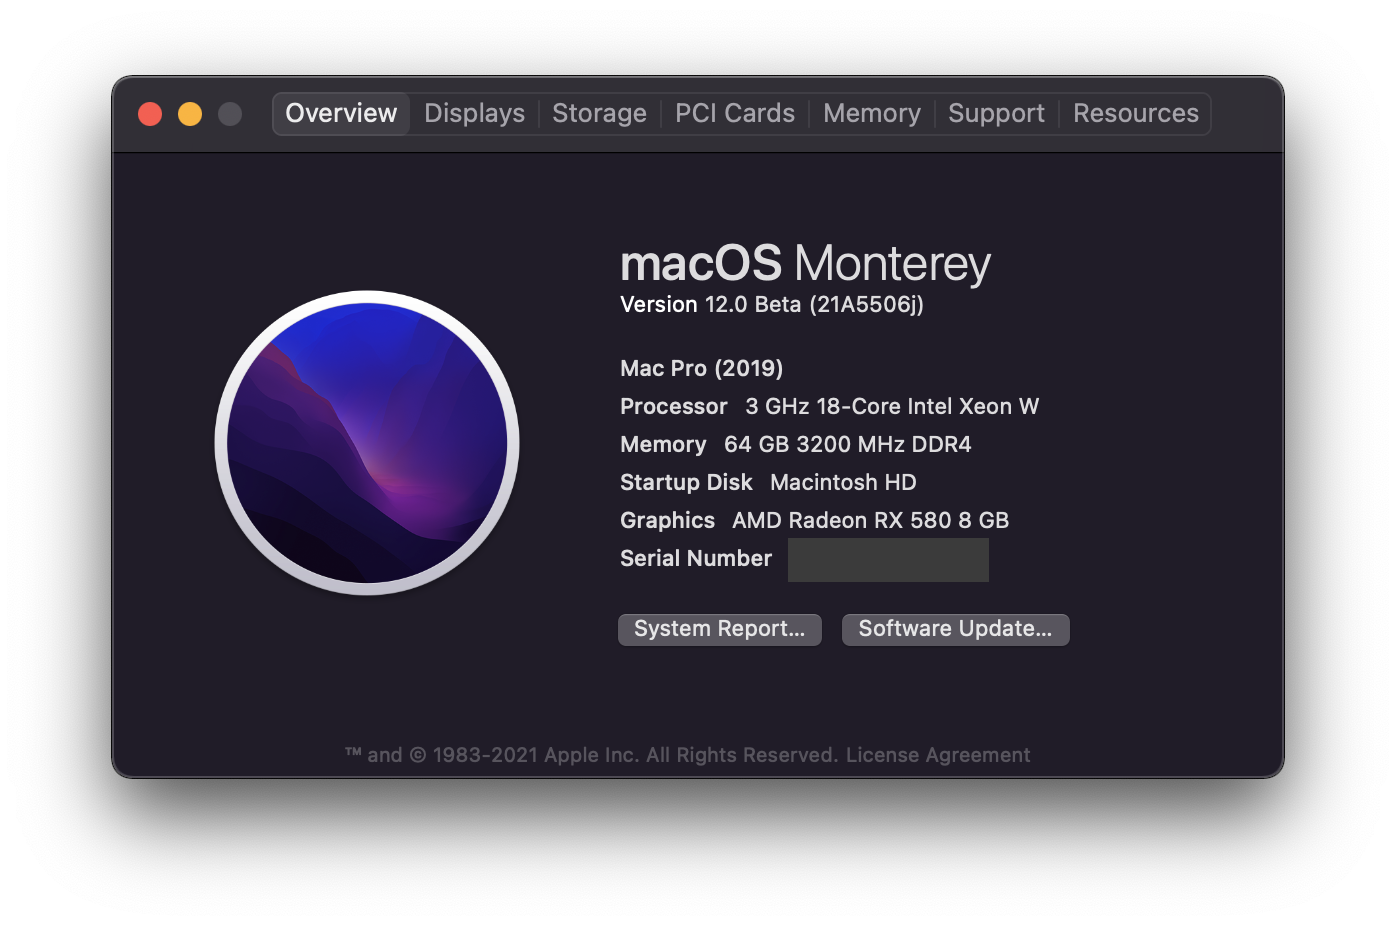
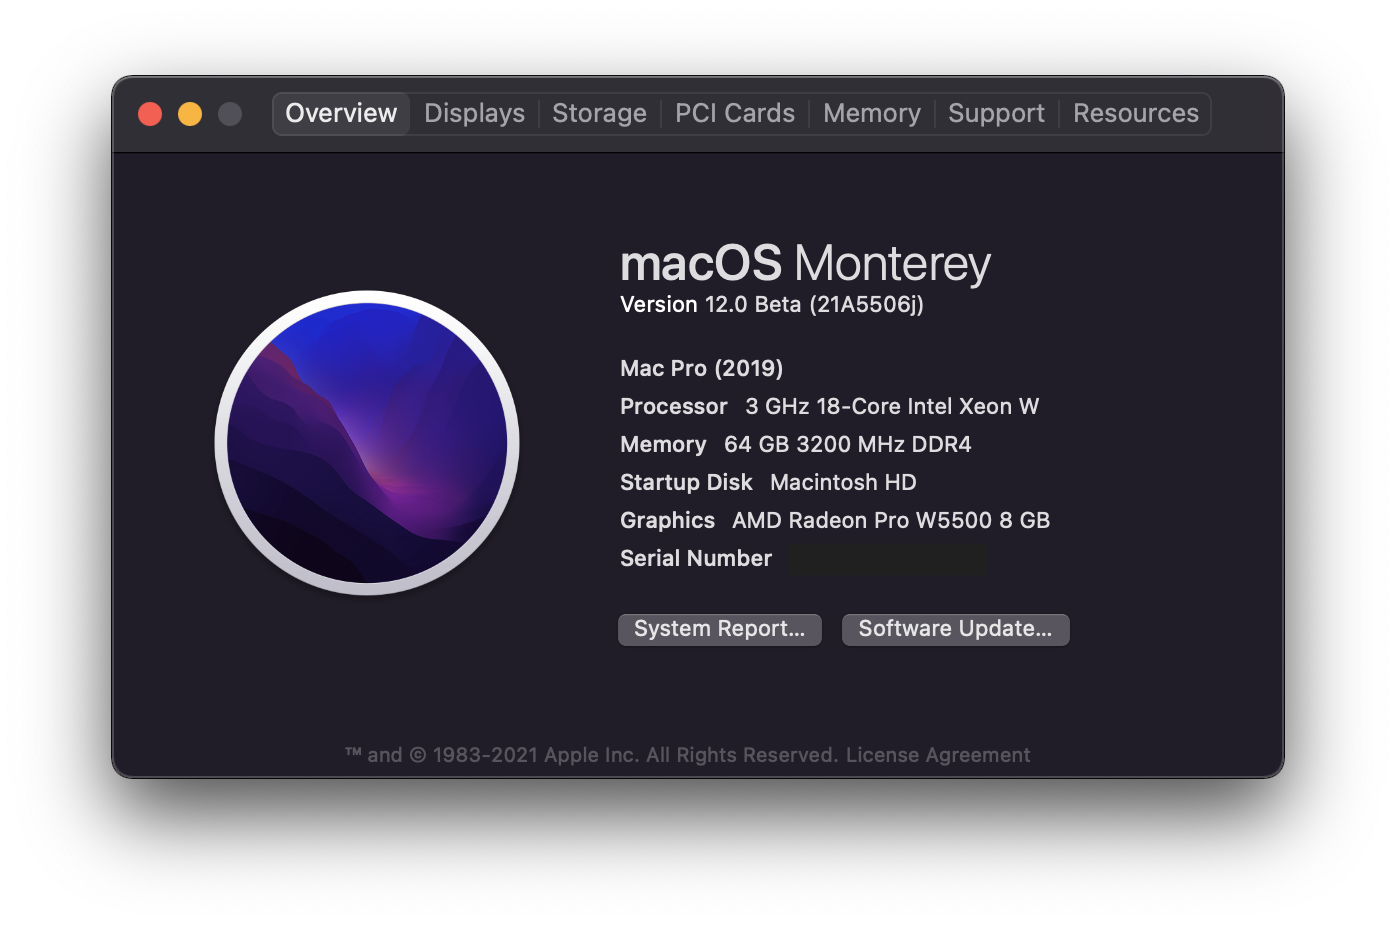
Archive Repo

Changed region(s): [[0.5544, 0.5443, 0.7701, 0.635]]

diff --git a/Personal Build/README.md b/Personal Build/README.md
@@ -8,7 +8,7 @@ ASUS Pro WS X299 Sage II
 
 | Component        | Model                                | Notes |
 | ---------------- | ---------------------------------------|-------------------|
-| Motherboard | ASUS Pro WS X299 Sage II | BIOS 0901 - Refer to [Quirks section](https://github.com/shinoki7/ASUS-X299-Hackintosh/tree/main/Personal%20Build#quirks) for reasoning |
+| Motherboard | ASUS Pro WS X299 Sage II | |
 | Processor | Intel i9-10980XE | |
 | CPU Cooler | Fractal Design Celsius+ S36 Dynamic | |
 | RAM | 4x16 Corsair Vengeance LPX 3200 Mhz | |
@@ -25,7 +25,7 @@ ASUS Pro WS X299 Sage II
 | 2 | x8 | Gigabyte GC-Titan Ridge V2.0 | NVM23 with Jumped Pins |
 | 3 | x8 | | |
 | 4 | x8 | | |
-| 5 | x8 | AMD Radeon Pro W5500 | |
+| 5 | x8 | AMD Radeon Pro W5500 | vBIOS 113-D3250400-104 |
 | 6 | x8 | Intel X550-T2 10G Ethernet Card | |
 | 7 | x8 | | |
 
@@ -59,54 +59,6 @@ ASUS Pro WS X299 Sage II
 - [x] Thunderbolt 3/4 hot-plug
 - [ ] SideCar
     * Due to some T2 chip dependancies on MacPro7,1 and iMacPro1,1 SMBIOS
-
-## Quirks
-### Reasoning for BIOS 0901 revision
-I'm planning on populating two of the U.2 ports with Thunderbolt add-in cards.  If you don't use the Thunderbolt BIOS settings and attach in the proper PCIe slot, the USB Controller on the card does not load on higher BIOS revisions with resizable bar.
-
-### Sleep Issues
-With my current setup, sleep does not work properly for two reasons.  
-1. Using a M.2 adapter for the Wifi/BT adapter.  Sleep will cause instant wake but this issue can be avoided if you use the [SSDT-GPRW.aml and GPRW TO XPRW patch](https://dortania.github.io/OpenCore-Post-Install/usb/misc/instant-wake.html).  However if you want to wake up via bluetooth, use a proper add-in card in a PCIe slot.
-
-2. If you populate a non storage device in a U.2 slot, the computer will sleep but wake will instantly result in a reboot with error
-
-```
-Sleep Wake failure in EFI (Failure code:: 0xffffffff 0x0000001f)
-```
-
-Sleep not working is not a major issue for me since I usually just turn off my computer at night or leave it on while it is processing something.  If sleep is important to you, I'd avoid using U.2 slots or M.2 slots with adapters for non storage devices.
-
-### Radeon Pro W5500
-I wanted a GPU that was single slot and didn't really care too much about performance since this machine is primarily used for coding/VMs/and audio work.
-While the Radeon Pro W5500 is supported out of the box, I have been running into two major issues.  The major issue appears to related to AGPM (Apple Graphics Power Management).  I have heard success stories from other users with the W5500 but the issues may be due to mine possibly being a HP version.
-
-#### 1. Kernel Panics with Green/Black screen
-macOS will randomly kernel panic and freeze (sometimes once a day, sometimes multiple) with a green screen (HDMI) or black screen (DP).  The computer will either stay on a green/black screen until manually rebooting or macOS will reboot automatically with a kernel panic log.
-
-Things I've tried:
- * Various versions of macOS Big Sur
- * Different SMBIOS (iMacPro1,1, MacPro7,1)
- * Different Ram/XMP settings
- * Enable/Disable Whatevergreen + boot-arg agdpmod=pikera
- * Enable/Disable AGPMInjector.kext
-
-#### 2. Hit or miss DP/HDMI audio
-DP/HDMI audio sometimes does not work and audio selection is missing from macOS Sound Preferences on consecutive reboots.  Not sure if this is due to my DP to HDMI adapters as I haven't tried testing with just DP cables attached.
-
-#### Workarounds
-After some troubleshooting, I found that keeping a video open in the background seems to prevent kernel panics.  The video does not have to be continuously playing so I just had a small video clip set to open on login.  However, I was still having issues with DP/HDMI audio.
-
-The more complete workaround I found was to adjust the Device Properties to device spoof to a 5500XT.
-
- | Key | Class | Value |
- | :--- | :--- | :--- |
- | compatible | String | pci1002,7341 |
- | device-id | Data | 40730000 |
- | agdpmod | String | Pikera |
-
-With device spoofing, DP/HDMI audio is more stable as well although the monitor/tv has to be on at boot for audio to work (at least with DP to HDMI adapters, haven't tested DP to DP connections).  This isn't really an issue for me since I only have audio connected to my main monitor.
-
-With the Device Properties adjustments and running a video at login, the amount of kernel panics have reduced significantly and I rarely run into these issues anymore.  Newer versions of macOS Big Sur and Monterey also appear to be more stable.
 
 ## Screenshots
 

diff --git a/Thunderbolt/README.md b/Thunderbolt/README.md
@@ -86,8 +86,8 @@ Switching from Standard to Extended is optional, but it brings your system more 
   * [Flashing SPI ROM Chips using Raspberry Pi 3B or 4](https://www.tonymacx86.com/threads/success-gigabyte-designare-z390-thunderbolt-3-i7-9700k-amd-rx-580.267551/post-2080585)
   * [Flashing SPI ROM Chips using 3.3V CH341A Programmer](https://www.tonymacx86.com/threads/success-gigabyte-designare-z390-thunderbolt-3-i7-9700k-amd-rx-580.267551/post-2161463)
 * Patched Thunderbolt Firmware files
-  * [Repository of Patched Thunderbolt Firmware Files](https://www.tonymacx86.com/threads/success-gigabyte-designare-z390-thunderbolt-3-i7-9700k-amd-rx-580.267551/page-1640#post-2087524)
-    * Currently using Z390-AORUS-XTREME-NVM33-Elias64Fr.bin
+  * [Repository of Patched Thunderbolt Firmware Files](https://www.tonymacx86.com/threads/success-gigabyte-designare-z390-thunderbolt-3-i7-9700k-amd-rx-580.267551/post-2087524)
+    * Currently using [TitanRidgeNVM23-Elias64Fr-Mod.bin](https://www.tonymacx86.com/threads/success-gigabyte-designare-z390-thunderbolt-3-i7-9700k-amd-rx-580.267551/post-2085225)
 * Additional Information
   * [Gigabyte Designare Z390 (Thunderbolt 3) + i7-9700K + AMD RX 580](https://www.tonymacx86.com/threads/success-gigabyte-designare-z390-thunderbolt-3-i7-9700k-amd-rx-580.267551/)
 
@@ -114,7 +114,7 @@ Once you reboot, you should have the Thunderbolt Bus pane properly populated and
 ### What Doesn't Work
 * USB 3.2 Gen 2 on macOS 11.3 or higher
   * Have had mixed results trying various NVM firmware versions.  The XHC Controller does not even load on the latest BIOS with Resizable Bar support.
-  * Workaround: Running BIOS 3302 with jumped pins.
+  * Workaround: Running BIOS 0901 with jumped pins.
 
 # 5. Thunderbolt 4
 For Thunderbolt 4, there are 3 PCIe Thunderbolt cards available using the Maple Ridge controller.  The information below is based on my testing with the ASUS ThunderboltEX 4.

diff --git a/README.md b/README.md
@@ -1,5 +1,7 @@
 # ASUS X299 Hackintosh
 
+# **README:**  This repository is archived as of OpenCore 0.7.3 as I'm selling my hackintosh.
+
 # Introduction
 The ASUS X299 Hackintosh repository contains OpenCore EFI distributions and related files that can be used as a reference when setting up or updating your X299 Hackintosh with the OpenCore bootloader.  While the EFIs can be used as a starting point for all ASUS X299 boards, it is still highly recommended to review the [OpenCore Vanilla Desktop Guide](https://dortania.github.io/OpenCore-Install-Guide/) and [Skylake-X section](https://dortania.github.io/OpenCore-Install-Guide/config-HEDT/skylake-x.html) for a full guide.  These files were created using the ASUS Pro WS X299 Sage II as a baseline.
 
